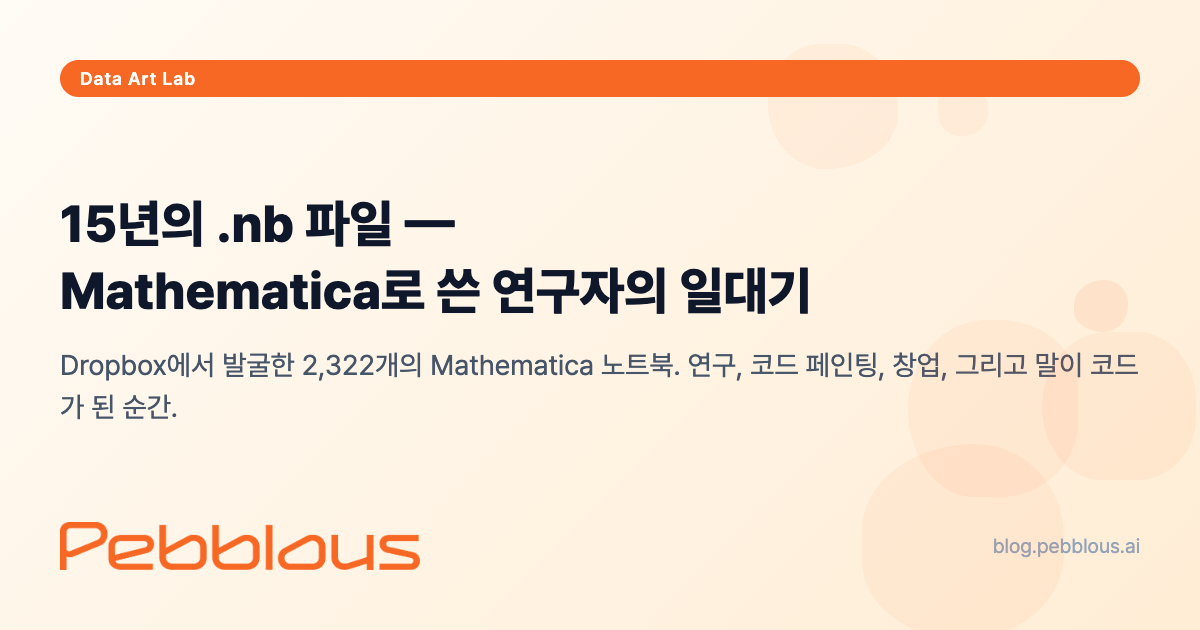
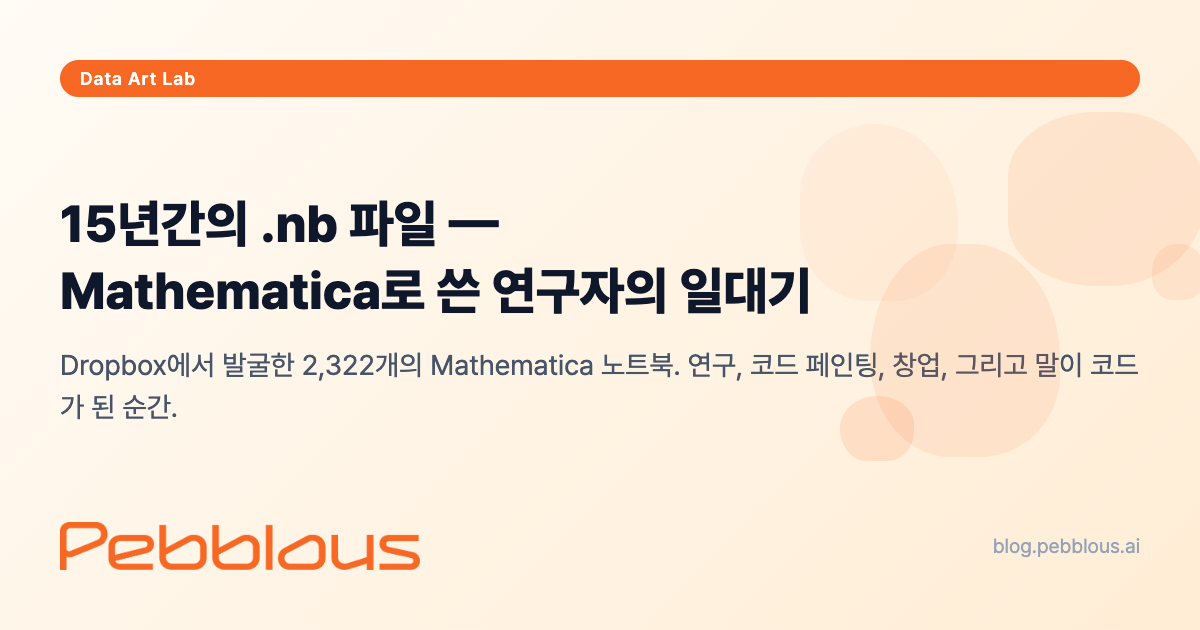
fix: '15년의 .nb' → '15년간의 .nb' 일괄 수정 (KO 8곳 + articles.json 2곳) + OG 재생성

diff --git a/report/mathematica-15-years/ko/index.html b/report/mathematica-15-years/ko/index.html
@@ -9,7 +9,7 @@
     <meta name="copyright" content="&copy; 2026 Pebblous. All rights reserved.">
     <meta name="robots" content="index, follow">
 
-    <title>15년의 .nb 파일 &mdash; Mathematica로 쓴 연구자의 일대기 | 페블러스</title>
+    <title>15년간의 .nb 파일 &mdash; Mathematica로 쓴 연구자의 일대기 | 페블러스</title>
     <meta name="description" content="Dropbox에서 발굴한 2,322개의 Mathematica 노트북 파일. 15년간의 연구, 코드 페인팅, 창업, 그리고 말이 코드가 된 순간까지의 여정을 데이터로 회고합니다.">
     <meta name="keywords" content="Mathematica, 노트북 파일, .nb, Wolfram Language, Code Painting, 바이브 코딩, Vibe Coding, 데이터 시각화, 페블러스, Pebblous, PebbloSim, 연구자 에세이, Dropbox API">
 
@@ -19,7 +19,7 @@
     <link rel="alternate" hreflang="x-default" href="https://blog.pebblous.ai/report/mathematica-15-years/ko/">
 
     <!-- Open Graph -->
-    <meta property="og:title" content="15년의 .nb 파일 &mdash; Mathematica로 쓴 연구자의 일대기">
+    <meta property="og:title" content="15년간의 .nb 파일 &mdash; Mathematica로 쓴 연구자의 일대기">
     <meta property="og:description" content="Dropbox에서 발굴한 2,322개의 Mathematica 노트북. 연구, 코드 페인팅, 창업, 그리고 말이 코드가 된 순간.">
     <meta property="og:type" content="article">
     <meta property="og:url" content="https://blog.pebblous.ai/report/mathematica-15-years/ko/">
@@ -34,7 +34,7 @@
     <meta name="twitter:card" content="summary_large_image">
     <meta name="twitter:site" content="@pebblous">
     <meta name="twitter:creator" content="@pebblous">
-    <meta name="twitter:title" content="15년의 .nb 파일 &mdash; Mathematica로 쓴 연구자의 일대기">
+    <meta name="twitter:title" content="15년간의 .nb 파일 &mdash; Mathematica로 쓴 연구자의 일대기">
     <meta name="twitter:description" content="2,322개의 Mathematica 노트북으로 회고하는 15년의 여정. 연구에서 코드 페인팅으로, 창업으로, 그리고 바이브 코딩으로.">
     <meta name="twitter:image" content="https://blog.pebblous.ai/report/mathematica-15-years/ko/image/index.png">
     <meta name="twitter:image:alt" content="15년의 Mathematica .nb 파일 히스토그램">
@@ -638,9 +638,9 @@
     <script>
         document.addEventListener('DOMContentLoaded', async function() {
             const config = {
-                mainTitle: "15년의 .nb 파일",
+                mainTitle: "15년간의 .nb 파일",
                 subtitle: "Mathematica로 쓴 연구자의 일대기, 그리고 말이 코드가 된 순간",
-                pageTitle: "15년의 .nb 파일 — Mathematica로 쓴 연구자의 일대기 | 페블러스",
+                pageTitle: "15년간의 .nb 파일 — Mathematica로 쓴 연구자의 일대기 | 페블러스",
                 publishDate: "2026-04-09",
                 publisher: "(주)페블러스 데이터 커뮤니케이션팀",
                 defaultTheme: "light",
